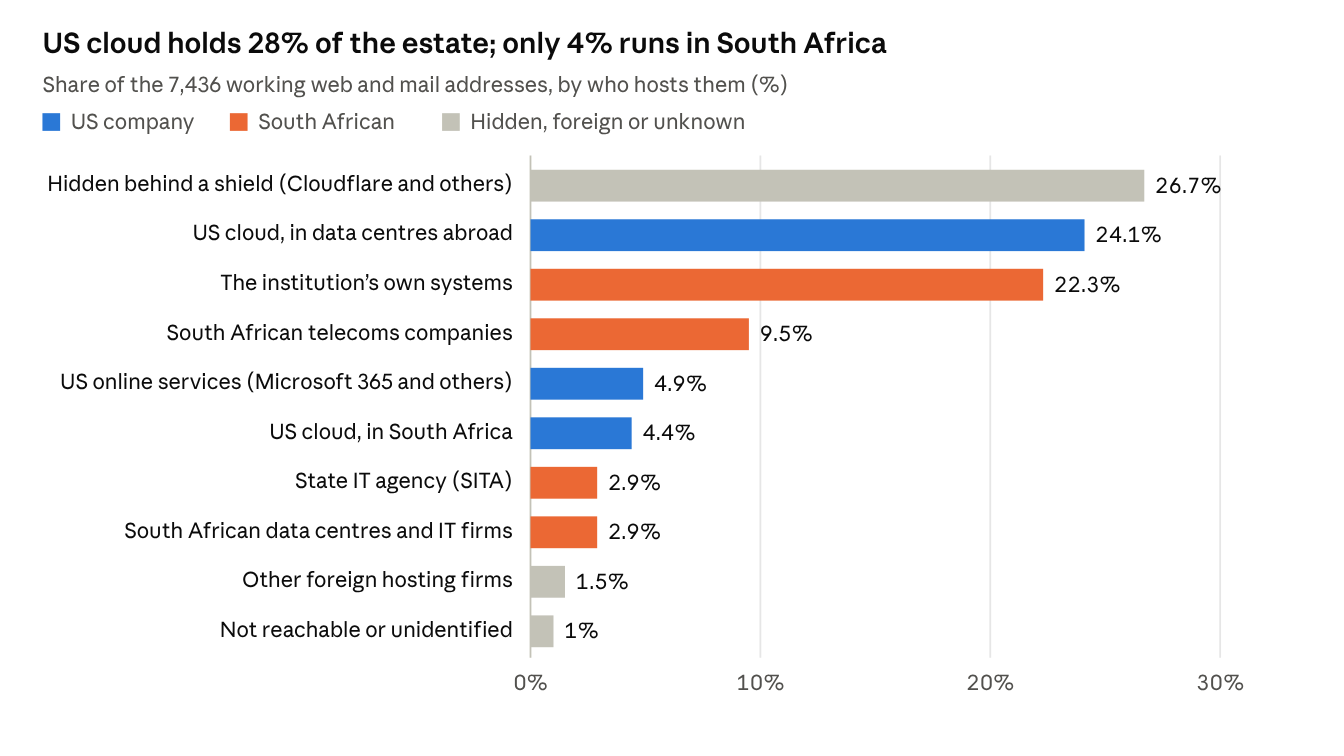
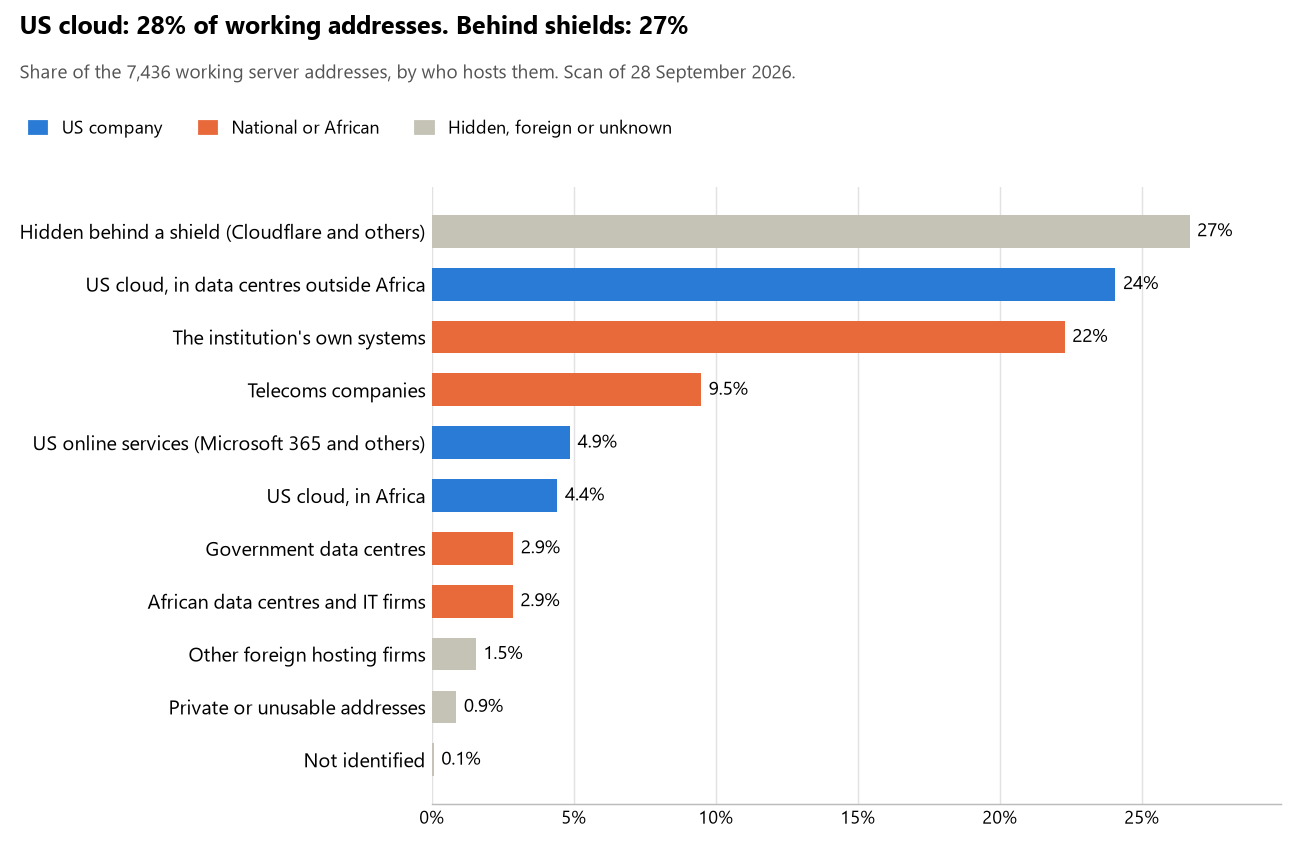
HYPERSCALER 04 ZAF: institutions 51 · US 28% · shield 27% · rank 6/54 · dangling 3

diff --git a/R&D/Hyperscaler-dependence/scan/ZAF/report.md b/R&D/Hyperscaler-dependence/scan/ZAF/report.md
@@ -1,126 +1,132 @@
 ---
 title: South Africa — who hosts the state's front door
-date: 2026-09-28
+date: 2026-09-29
 author: Bill Anderson
 source: R&D/Hyperscaler-dependence/scan/ZAF/ (nodes.csv, organisations.csv, run.json)
+scan_date: 2026-09-28
 ---
 
 # South Africa: who hosts the state's front door
 
-28 September 2026 · Bill Anderson
+29 September 2026 · Bill Anderson · scan of 28 September 2026
 
-Just over a quarter (28%) of the public-facing systems of 49 South African state bodies, banks and utilities run on Amazon, Microsoft, Google or Oracle. Only about one sixth of that is hosted in South Africa itself. Another quarter sits behind Cloudflare and similar shields, so we can't see who hosts it. Another quarter is run by the institutions themselves or by the state's own IT agency, SITA.
+The scan covered 51 state bodies, banks and state-owned companies in South Africa. 28% of their working server addresses are on US cloud: Amazon, Microsoft, Google or Oracle. 27% are behind shields such as Cloudflare, which hide the host. 25% are on government data centres or the institutions' own systems.
 
-The scan covered the government's main ministries and agencies, the ten largest banks, the payment switch, the stock exchange and the big state-owned companies. It found 12,666 web and mail addresses, of which 7,436 lead to a working server. 43 of the 49 institutions use a US cloud provider for at least part of their public estate. 30 of them use Microsoft for email.
+The scan found 12,666 web and mail names and 7,436 working addresses. 44 of the 51 institutions use US cloud for at least part of their estate. 31 use Microsoft for email and none use Google.
+
+Of the 54 countries scanned so far, South Africa has the 6th highest US cloud share (median 13%) and the 9th highest share behind shields (median 12%).
 
 ## Where it lives
 
-![US cloud holds 28% of the estate; only 4% runs in South Africa](report-chart.png)
+![US cloud: 28% of working addresses; behind shields: 27%](report-chart.png)
 
-Most of the US share is not really "a data centre". More than half of it is Amazon's and Microsoft's worldwide delivery networks, which put a copy of a website close to each visitor. Of the rest, Europe hosts about 540 addresses and South Africa about 330. The European ones are mostly in Microsoft's Dublin and Amsterdam data centres and Amazon's in Ireland and Frankfurt. The US itself hosts almost none.
+2,119 addresses are on US cloud. Where they are: 54% on worldwide delivery networks (no fixed location), 26% in Europe, 16% in Africa, 3% in North America, 1% in a region the providers do not publish and <1% in Asia or the Middle East.
 
-The "shield" quarter is the part we cannot see into. Cloudflare and similar firms sit in front of a website to absorb attacks, and they hide the server behind them. Those servers could be anywhere, including on US cloud, so the 28% is a floor, not a ceiling.
+1,984 addresses are behind shields: Cloudflare (88%), Imperva (8%) and Radware (4%). The host behind a shield cannot be seen, so the US cloud share is a minimum.
 
 ## Banks against government
 
-Banks and the state lean on US cloud about equally, but banks run far more of their own systems. The state leans more on telecoms companies and on SITA.
-
-| Share of working addresses | Government (39 bodies) | Banks (10) |
+| Share of working addresses | Government (39) | Banks (12) |
 | --- | --- | --- |
 | On US cloud | 27% | 30% |
-| …of which hosted in South Africa | 3% | 5% |
-| Hidden behind a shield | 26% | 27% |
+| …of which in Africa | 3% | 5% |
+| US online services (Microsoft 365 and others) | 6% | 4% |
+| Behind a shield | 26% | 27% |
+| Government data centres | 7% | 0% |
 | Run by the institution itself | 11% | 30% |
-| Run by SITA, the state IT agency | 7% | — |
-| Run by South African telecoms companies | 13% | 7% |
+| Telecoms companies | 13% | 7% |
+| African data centres and IT firms | 7% | <1% |
+| Other foreign hosting firms | 2% | <1% |
 
-"Government" here includes the Reserve Bank, the payment switch, the stock exchange and the state-owned companies (Eskom, Transnet, Telkom and others). Every one of the ten largest banks uses US cloud somewhere; so do 33 of the 39 government bodies.
+11 of 12 banks and 33 of 39 government bodies use US cloud somewhere. "Government" includes the central bank, the payment switch, the stock exchange and the state-owned companies.
 
 ## Email
 
-Microsoft carries the email of 30 of the 49 institutions, and Google carries none. Email is a fair proxy for the office: a body on Microsoft 365 for mail usually keeps its documents and calendars there too.
+31 of the 51 institutions use Microsoft 365 for email and none use Google.
 
-- **Microsoft 365:** 30, including National Treasury, SARS, the Police, Justice, DIRCO, Parliament and eight of the ten banks.
-- **Behind a mail filter, provider unseen:** 10. Mimecast, a British firm, screens the mail and hides what sits behind it. They include the Reserve Bank, Stats SA, the Electoral Commission, the Department of Health and Telkom.
-- **South African providers:** 5. Defence and the State Security Agency use Telkom. Home Affairs and SITA use Dimension Data. The Cybersecurity Hub uses TENET, the universities' network.
-- **Their own mail servers:** FirstRand (FNB), and the government portal through SITA.
-- **No mail on the domain scanned:** 2. The Presidency's mail runs on a different domain, and the Deeds Office domain is broken (see below).
-
-Mimecast screens mail for 24 of the 49 in all, whichever provider sits behind it.
+- **Microsoft 365:** 31. Parliament of the Republic of South Africa, Department of International Relations and Cooperation (DIRCO), South African Police Service, Department of Justice and Constitutional Development, National Treasury, South African Revenue Service, Standard Bank, Absa, Absa (group), Nedbank, Capitec Bank, Discovery Bank, African Bank, TymeBank, Bidvest Bank, Information Regulator, South African Social Security Agency (SASSA), Department of Social Development, BankservAfrica, Johannesburg Stock Exchange, Financial Sector Conduct Authority, Public Investment Corporation, National Treasury eTender portal, Eskom, Transnet, Broadband Infraco, Department of Communications and Digital Technologies, ICASA, Auditor-General of South Africa, Special Investigating Unit and Public Protector.
+- **Government data centre (State Information Technology Agency):** 1. Government portal (GCIS).
+- **Own mail servers (FNB):** 1. FirstRand.
+- **Telecoms companies:** 5. Department of Defence and SANDF (Telkom SA), State Security Agency (Telkom SA), Department of Home Affairs (Dimension Data), State Information Technology Agency (SITA) (Dimension Data) and Cybersecurity Hub (national CSIRT) (TENET).
+- **Behind a mail filter, provider not visible:** 11. Office of the Chief Justice / Judiciary, South African Reserve Bank, FirstRand, Investec, Electoral Commission of South Africa (IEC), Statistics South Africa, National Department of Health, Payments Association of South Africa (PASA), Government Employees Pension Fund, Telkom and Sentech.
+- **No mail on the domain scanned:** 2. The Presidency and Department of Land Reform and Rural Development (Deeds Office).
 
 ## Institution by institution
 
-TymeBank, National Treasury and the Public Investment Corporation lean hardest on US cloud. Stats SA, the Electoral Commission, Investec, the JSE and Eskom hide most of their estate behind a shield. Each figure is a share of that institution's working addresses. Whatever a row does not add up to sits with South African telecoms companies and data centres, US online services, or foreign hosts. FirstRand and Absa each appear twice because each runs two main domains.
+Each figure is a share of that institution's working addresses. The rest are with telecoms companies, African data centres, US online services or foreign hosts. Rows follow the order of institution types.
 
-| Institution | Sector | On US cloud | …of which in SA | Behind a shield | Own or SITA | Email |
+| Institution | Type | On US cloud | …in Africa | Behind a shield | Own or government | Email |
 | --- | --- | --- | --- | --- | --- | --- |
-| TymeBank | Bank | 91% | 2% | 1% | 0% | Microsoft |
-| National Treasury | Government | 74% | 1% | 1% | 18% | Microsoft |
-| Public Investment Corporation | Government | 64% | 15% | 0% | 0% | Microsoft |
-| ICASA | Government | 57% | 26% | 3% | 0% | Microsoft |
-| Bidvest Bank | Bank | 56% | 5% | 5% | 0% | Microsoft |
-| Sentech | Government | 54% | 0% | 9% | 24% | Filtered (Mimecast) |
-| Absa | Bank | 53% | 29% | 6% | 34% | Microsoft |
-| Telkom | Government | 49% | 2% | 0% | 39% | Filtered (Mimecast) |
-| Nedbank | Bank | 48% | 7% | 0% | 3% | Microsoft |
-| African Bank | Bank | 46% | 2% | 38% | 9% | Microsoft |
-| Financial Sector Conduct Authority | Government | 43% | 5% | 0% | 0% | Microsoft |
-| State Security Agency | Government | 43% | 0% | 0% | 0% | Telkom |
-| Payments Association (PASA) | Government | 39% | 0% | 0% | 0% | Filtered (Mimecast) |
-| BankservAfrica | Government | 38% | 1% | 0% | 12% | Microsoft |
-| eTender portal | Government | 38% | 0% | 0% | 22% | Microsoft |
-| Absa (absa.africa) | Bank | 36% | 26% | 13% | 10% | Microsoft |
-| Foreign Affairs (DIRCO) | Government | 33% | 5% | 0% | 5% | Microsoft |
-| Government Employees Pension Fund | Government | 33% | 0% | 7% | 0% | Filtered (Mimecast) |
-| Cybersecurity Hub | Government | 31% | 0% | 0% | 10% | TENET |
-| South African Reserve Bank | Government | 28% | 24% | 0% | 65% | Filtered (Mimecast) |
-| Discovery Bank | Bank | 28% | 2% | 16% | 30% | Microsoft |
-| SITA (state IT agency) | Government | 28% | 0% | 0% | 68% | Dimension Data |
-| Judiciary (Office of the Chief Justice) | Government | 26% | 5% | 0% | 55% | Filtered (Mimecast) |
-| South African Police Service | Government | 26% | 0% | 0% | 71% | Microsoft |
-| Broadband Infraco | Government | 25% | 0% | 6% | 19% | Microsoft |
-| Department of Home Affairs | Government | 24% | 2% | 0% | 71% | Dimension Data |
-| Special Investigating Unit | Government | 21% | 2% | 0% | 0% | Microsoft |
-| Standard Bank | Bank | 21% | 1% | 55% | 22% | Microsoft |
-| Department of Justice | Government | 20% | 0% | 0% | 0% | Microsoft |
-| Information Regulator | Government | 20% | 0% | 0% | 7% | Microsoft |
-| National Department of Health | Government | 12% | 12% | 0% | 2% | Filtered (Mimecast) |
-| FNB | Bank | 10% | 4% | 2% | 74% | Own servers |
-| Capitec Bank | Bank | 10% | 0% | 4% | 82% | Microsoft |
-| Eskom | Government | 10% | 0% | 75% | 14% | Microsoft |
-| Transnet | Government | 9% | 5% | 26% | 3% | Microsoft |
-| Johannesburg Stock Exchange | Government | 8% | 0% | 79% | 10% | Microsoft |
-| Communications and Digital Technologies | Government | 8% | 0% | 0% | 75% | Microsoft |
-| Public Protector | Government | 6% | 0% | 0% | 42% | Microsoft |
-| Auditor-General of South Africa | Government | 5% | 4% | 0% | 0% | Microsoft |
-| Electoral Commission (IEC) | Government | 5% | 0% | 87% | 0% | Filtered (Mimecast) |
-| Department of Social Development | Government | 4% | 2% | 0% | 64% | Microsoft |
-| Investec | Bank | 4% | 0% | 82% | 9% | Filtered (Mimecast) |
-| South African Revenue Service | Government | 3% | 2% | 60% | 0% | Microsoft |
-| Statistics South Africa | Government | 2% | 0% | 95% | 1% | Filtered (Mimecast) |
-| The Presidency | Government | 0% | 0% | 0% | 40% | — |
-| Parliament | Government | 0% | 0% | 0% | 0% | Microsoft |
-| Defence and SANDF | Government | 0% | 0% | 0% | 7% | Telkom |
-| FirstRand | Bank | 0% | 0% | 0% | 77% | Filtered (Cisco) |
-| SASSA | Government | 0% | 0% | 0% | 0% | Microsoft |
-| Government portal (gov.za) | Government | 0% | 0% | 0% | 56% | SITA |
-| Deeds Office (Land Reform) | Government | — | — | — | — | — |
+| The Presidency | Presidency | 0% | 0% | 0% | 40% | — |
+| Parliament of the Republic of South Africa | Parliament | 0% | 0% | 0% | 0% | Microsoft |
+| Department of International Relations and Cooperation (DIRCO) | Foreign Affairs | 33% | 5% | 0% | 5% | Microsoft |
+| Department of Defence and SANDF | Defence | 0% | 0% | 0% | 7% | Telecoms |
+| South African Police Service | Police | 26% | 0% | 0% | 71% | Microsoft |
+| Department of Justice and Constitutional Development | Justice | 20% | 0% | 0% | 0% | Microsoft |
+| Office of the Chief Justice / Judiciary | Justice | 26% | 5% | 0% | 55% | Filtered |
+| National Treasury | Treasury / Finance | 74% | <1% | <1% | 19% | Microsoft |
+| South African Revenue Service | Revenue Service | 3% | 2% | 60% | 0% | Microsoft |
+| State Security Agency | Intelligence | 43% | 0% | 0% | 0% | Telecoms |
+| Department of Home Affairs | Interior / Home Affairs | 24% | 2% | 0% | 71% | Telecoms |
+| South African Reserve Bank | Central Bank | 28% | 24% | 0% | 65% | Filtered |
+| Standard Bank | Commercial Banks | 21% | 1% | 55% | 22% | Microsoft |
+| FirstRand | Commercial Banks | 0% | 0% | 0% | 77% | Filtered |
+| FirstRand (FNB) | Commercial Banks | 10% | 4% | 2% | 74% | Own servers |
+| Absa | Commercial Banks | 53% | 29% | 6% | 34% | Microsoft |
+| Absa (group) | Commercial Banks | 35% | 26% | 13% | 10% | Microsoft |
+| Nedbank | Commercial Banks | 48% | 7% | 0% | 3% | Microsoft |
+| Investec | Commercial Banks | 4% | 0% | 82% | 9% | Filtered |
+| Capitec Bank | Commercial Banks | 10% | 0% | 3% | 82% | Microsoft |
+| Discovery Bank | Commercial Banks | 28% | 2% | 16% | 30% | Microsoft |
+| African Bank | Commercial Banks | 46% | 2% | 38% | 9% | Microsoft |
+| TymeBank | Commercial Banks | 91% | 1% | <1% | 0% | Microsoft |
+| Bidvest Bank | Commercial Banks | 56% | 5% | 5% | 0% | Microsoft |
+| Information Regulator | Data protection authority | 20% | 0% | 0% | 7% | Microsoft |
+| Electoral Commission of South Africa (IEC) | Electoral commission | 5% | 0% | 87% | 0% | Filtered |
+| Statistics South Africa | Statistics office | 2% | 0% | 95% | 1% | Filtered |
+| National Department of Health | Health ministry / National health insurance | 12% | 12% | 0% | 2% | Filtered |
+| South African Social Security Agency (SASSA) | Social protection / Social registry | 0% | 0% | 0% | 0% | Microsoft |
+| Department of Social Development | Social protection / Social registry | 4% | 2% | 0% | 64% | Microsoft |
+| Department of Land Reform and Rural Development (Deeds Office) | Land registry | no working address | | | | — |
+| BankservAfrica | National payment switch | 38% | 1% | 0% | 12% | Microsoft |
+| Payments Association of South Africa (PASA) | National payment switch | 39% | 0% | 0% | 0% | Filtered |
+| Johannesburg Stock Exchange | Stock exchange | 8% | 0% | 79% | 10% | Microsoft |
+| Financial Sector Conduct Authority | Securities regulator | 43% | 5% | 0% | 0% | Microsoft |
+| Public Investment Corporation | Sovereign wealth fund / National pension fund | 64% | 15% | 0% | 0% | Microsoft |
+| Government Employees Pension Fund | Sovereign wealth fund / National pension fund | 33% | 0% | 7% | 0% | Filtered |
+| National Treasury eTender portal | Public procurement authority | 38% | 0% | 0% | 22% | Microsoft |
+| Eskom | Energy utility | 9% | 0% | 75% | 14% | Microsoft |
+| Transnet | Ports authority | 9% | 5% | 26% | 3% | Microsoft |
+| Telkom | State-owned telco / National backbone operator | 49% | 2% | 0% | 39% | Filtered |
+| Broadband Infraco | State-owned telco / National backbone operator | 25% | 0% | 6% | 19% | Microsoft |
+| Sentech | State-owned telco / National backbone operator | 54% | 0% | 9% | 24% | Filtered |
+| Government portal (GCIS) | E-government agency | 0% | 0% | 0% | 56% | Government |
+| Department of Communications and Digital Technologies | E-government agency | 8% | 0% | 0% | 75% | Microsoft |
+| State Information Technology Agency (SITA) | National data centre / Government cloud operator | 28% | 0% | 0% | 68% | Telecoms |
+| Cybersecurity Hub (national CSIRT) | Cybersecurity agency / National CERT | 31% | 0% | 0% | 10% | Telecoms |
+| ICASA | Communications regulator | 57% | 26% | 3% | 0% | Microsoft |
+| Auditor-General of South Africa | Audit office | 5% | 4% | 0% | 0% | Microsoft |
+| Special Investigating Unit | Anti-corruption commission | 21% | 2% | 0% | 0% | Microsoft |
+| Public Protector | Anti-corruption commission | 6% | 0% | 0% | 42% | Microsoft |
+
+4 of the 36 types are covered by another institution in the table: Armed Forces (in Defence), Customs (in Revenue Service), Civil registry / National ID authority (in Interior) and Immigration / Passports (in Interior).
 
 ## What stood out
 
-- **The Presidency's website is on a commercial web host.** It runs on Xneelo, a South African hosting firm, not on SITA or government servers. Its State of the Nation site runs on DigitalOcean, a US hosting company.
-- **The Government Employees Pension Fund's website is on budget shared hosting.** It sits with Hostinger, a Lithuanian firm selling low-cost hosting to the public.
-- **One Eskom web address points at a domain that has lapsed.** The outside domain it relies on is now held by a domain-parking firm. Whoever takes that domain over could publish content under an Eskom address. We have flagged it and are not naming the address here.
-- **The Deeds Office's domain no longer works.** Every lookup fails. Earlier the same day its homepage was seen showing Indonesian gambling content. The department was restructured in 2024, and the scan should move to its successor's domain.
-- **Those that use US cloud inside South Africa are few.** The Reserve Bank, Absa and ICASA each keep about a quarter of their estate in Amazon's or Microsoft's South African data centres. The rest use Amazon's and Microsoft's worldwide delivery networks or their European data centres.
+- **Most on US cloud.** TymeBank (91%), National Treasury (74%), Public Investment Corporation (64%), ICASA (57%) and Bidvest Bank (56%) have more than half their working addresses on US cloud. 2 more are over half.
+- **US cloud in Africa.** Absa has 29% of its working addresses in US cloud data centres in Africa, the highest share in South Africa.
+- **Core state bodies on foreign hosting firms.** The Presidency (DigitalOcean), Parliament of the Republic of South Africa (Casablanca INT and SuperNetwork), Office of the Chief Justice / Judiciary (Akamai Connected Cloud (Linode)) and South African Reserve Bank (DigitalOcean).
+- **No Chinese cloud.** The scan found no address on Huawei, Alibaba or Tencent cloud.
+- **Names anyone could claim.** 3 web addresses at Absa, South African Revenue Service and Standard Bank point at a deleted cloud name that anyone could register and then publish under. We have flagged them and do not name them here.
 
 ## What this can and cannot tell you
 
-The scan sees only the front door. That means websites, email, login portals, remote-access gateways and online banking. It cannot see where a bank's core ledger, the population register or the payroll actually run, and for banks those are mostly in their own data centres.
+The scan sees only the front door: websites, email, login portals, remote-access gateways and online banking. It cannot see where a bank's core ledger, the ID register or the payroll run.
 
-- **Every US figure is a floor.** Anything behind Cloudflare or a mail filter could also be on US cloud, and we cannot tell.
-- **It counts addresses, not importance.** A bank with 400 test and marketing sites weighs more than a ministry with 20, whatever those sites do.
-- **It is a snapshot.** Every figure is as of 28 September 2026. Running the scan again in a year shows which way each institution is moving.
-- **Nothing was touched.** The scan used public address lookups, public certificate records and the cloud companies' own published lists of their addresses. It never connected to any institution's systems.
+- **Every US figure is a minimum.** Anything behind a shield or a mail filter could also be on US cloud. In South Africa that is 27% of working addresses.
+- **It counts addresses, not importance.** An institution with many test and marketing sites weighs more than one with few.
+- **The list of institutions was drawn up for this scan.** Each domain was checked to exist, not confirmed as the institution's main one.
+- **It is a snapshot.** Every figure is as of 28 September 2026.
+- **Nothing was touched.** The scan used public address lookups, public certificate records and the cloud companies' published address lists. It never connected to any institution's systems.
 
 The data and method are in `R&D/Hyperscaler-dependence/scan/ZAF/` and `R&D/Hyperscaler-dependence/HYPERSCALER-SCAN.md` in the Corpus repository.

diff --git a/logs/log.md b/logs/log.md
@@ -12,6 +12,7 @@ title: Corpus process log
 *(**`status-init` joined the log on 2026-08-16** and writes one line per country, not per session. Before that it rewrote status reports and committed them while leaving no trace here, so the log implied `outputs/` only ever moves under BUILD — untrue since the campaign began, and the lines above 12:21 on 2026-08-16 are the gap it left. Nothing has been backfilled: the runs are in git, and a hand-written line dated to a run nobody logged is a worse record than an admitted hole.)*
 
 <!-- newest first: a new entry goes directly below this line -->
+2026-09-29 15:53 · **HYPERSCALER** · unclocked · 04 ZAF: institutions 51 · US 28% · shield 27% · rank 6/54 · dangling 3
 2026-09-29 15:52 · **HYPERSCALER** · unclocked · 02 NGA crt.sh re-run: institutions 52 · names 6667 · routable 5765 · us-hyperscaler 24% (african region 1%) · m365 24 · google 2 · cdn-fronted 44% · national/self 14% · unattributed 15
 2026-09-29 15:52 · **HYPERSCALER** · unclocked · 02+03 KEN rescan: institutions 51 · names 3654 · routable 4780 · us-hyperscaler 11% (african region 2%) · m365 27 · google 5 · cdn-fronted 49% · national/self 13% · unattributed 0
 2026-09-29 15:24 · **HYPERSCALER** · unclocked · 02+03 NGA rescan: institutions 52 · names 6530 · routable 5624 · us-hyperscaler 24% (african region 1%) · m365 24 · google 2 · cdn-fronted 44% · national/self 14% · unattributed 15
